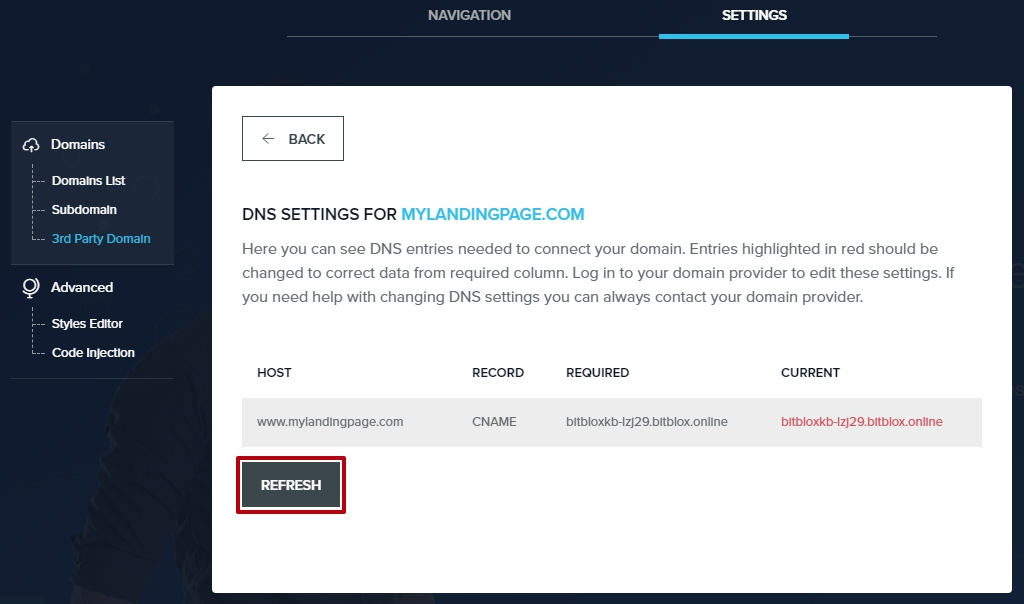
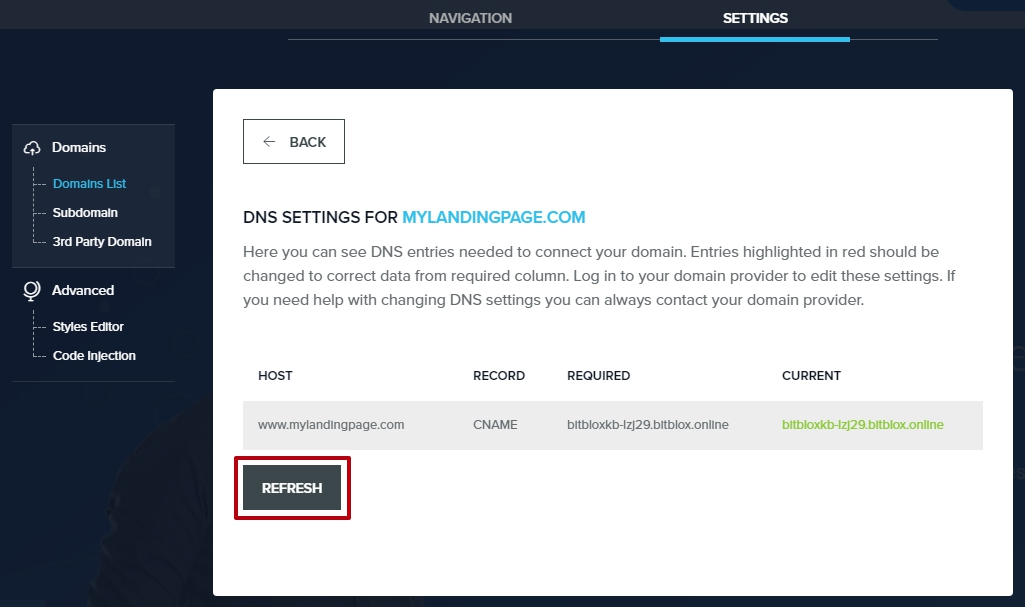
...

diff --git a/publishing/third-party-domains/godaddy2/index.rst b/publishing/third-party-domains/godaddy2/index.rst
@@ -32,54 +32,55 @@ If you purchased a domain from GoDaddy, then you will have to configure your DNS
 		|click-3rd-party-domain-bitblox|
 
 		
-5. In the **Domain Name** box, enter the full domain name you want to link (ex: ``mylandingpage.com``) and then click **Connect Domain** button
+5. In the **Domain Name** box, enter the full domain name you want to link (ex: ``mylandingpage.com``) 
+6. Click **Connect Domain** button
 
     .. class:: screenshot
 
 		|click-connect-domain-bitblox|
 		
-6. A new panel will be opened with the records from your provider domain account. Copy the name of your page (ex: ``chitoroaganataliav-pzg27.bitblox.online``) under the **required** row
+7. Under the **Required** row, copy the name of your page (ex: ``chitoroaganataliav-pzg27.bitblox.online``) 
 
 
     .. class:: screenshot
 
 		|copy-bitblox-page-name|
 		
-7. `Log in to your GoDaddy account <https://sso.godaddy.com/?realm=idp&app=mya&path=?ci=>`__
-8. In the **Domains** section, click **Manage**
+8. `Log in to your GoDaddy account <https://sso.godaddy.com/?realm=idp&app=mya&path=?ci=>`__
+9. In the **Domains** section, click **Manage**
 
 	.. class:: screenshot
 
 		|godaddy-click-manage|
 		
-9. Select the domain you would like to connect and click the **Settings** icon, and select **Manage DNS**
+10. Select the domain you want to use, click the **Settings** icon, and select **Manage DNS**
 	
 	.. class:: screenshot
 
 		|godaddy-manage-dns|
 		
-10. In the **Records** section, click the **Edit** Icon for the CNAME record
+11. In the **Records** section, click the **Edit** Icon for the CNAME record
 
 
 	.. class:: screenshot
 
 		|godaddy-manage-cname|
 
-11. In the **Points** to text box, enter the name of your page (ex: ``chitoroaganataliav-pzg27.bitblox.online``)
-12. Click Save
+12. In the **Points** to text box, enter the name of your page (ex: ``chitoroaganataliav-pzg27.bitblox.online``)
+13. Click Save
 
 	.. class:: screenshot
 
 		|godaddy-save-cname|
 
-13. In your BitBlox account, click **Refresh** button on the DNS Settings:
+14. In your BitBlox account, click **Refresh** button on the DNS Settings:
 
 	.. class:: screenshot
 
 		|bitblox-click-refresh-dns-settings|
 
 
-14. If your records are entered correctly, the Current Data will be green
+15. If your records are entered correctly, the Current Data will be green
 
 
 	.. class:: screenshot

diff --git a/publishing/third-party-domains/1and12/index.rst b/publishing/third-party-domains/1and12/index.rst
@@ -79,7 +79,6 @@ If you purchased a domain from 1and1, then you will have to configure your DNS S
 
 12. In the **Subdomain Name** text box add **www** extension and click **Save** button
 
-
 	
 	.. class:: screenshot
 
@@ -122,7 +121,7 @@ If you purchased a domain from 1and1, then you will have to configure your DNS S
 
 .. class:: screenshot
 
-		|click-refresh-bitblox|
+		|bitblox-green|
 
 
 		.. note::
@@ -152,3 +151,4 @@ For more help with 3rd party domain connection,  contact our `support team <http
 .. |click-cname-record| image:: _images/click-cname-record.jpg
 .. |enter-the-name-of-bitblox-page| image:: _images/enter-the-name-of-bitblox-page.jpg
 .. |click-refresh-bitblox| image:: _images/click-refresh-bitblox.jpg
+.. |bitblox-green| image:: _images/bitblox-green.jpg

diff --git a/publishing/third-party-domains/dreamhost2/index.rst b/publishing/third-party-domains/dreamhost2/index.rst
@@ -81,7 +81,7 @@ If you purchased a domain from DreamHost, then you will have to configure your D
 	
 12. In the **Name** text box, enter the **www** extension
 13. In the **Type** drop down menu, select **CNAME** Record
-14. In the **Value** text box, paste the name of your page (ex: ``bitbloxkb-lzj29.bitblox.online``) 
+14. In the **Value** text box, enter the name of your page (ex: ``bitbloxkb-lzj29.bitblox.online``) 
 15. Click **Add Record Now** button
 
     .. class:: screenshot
